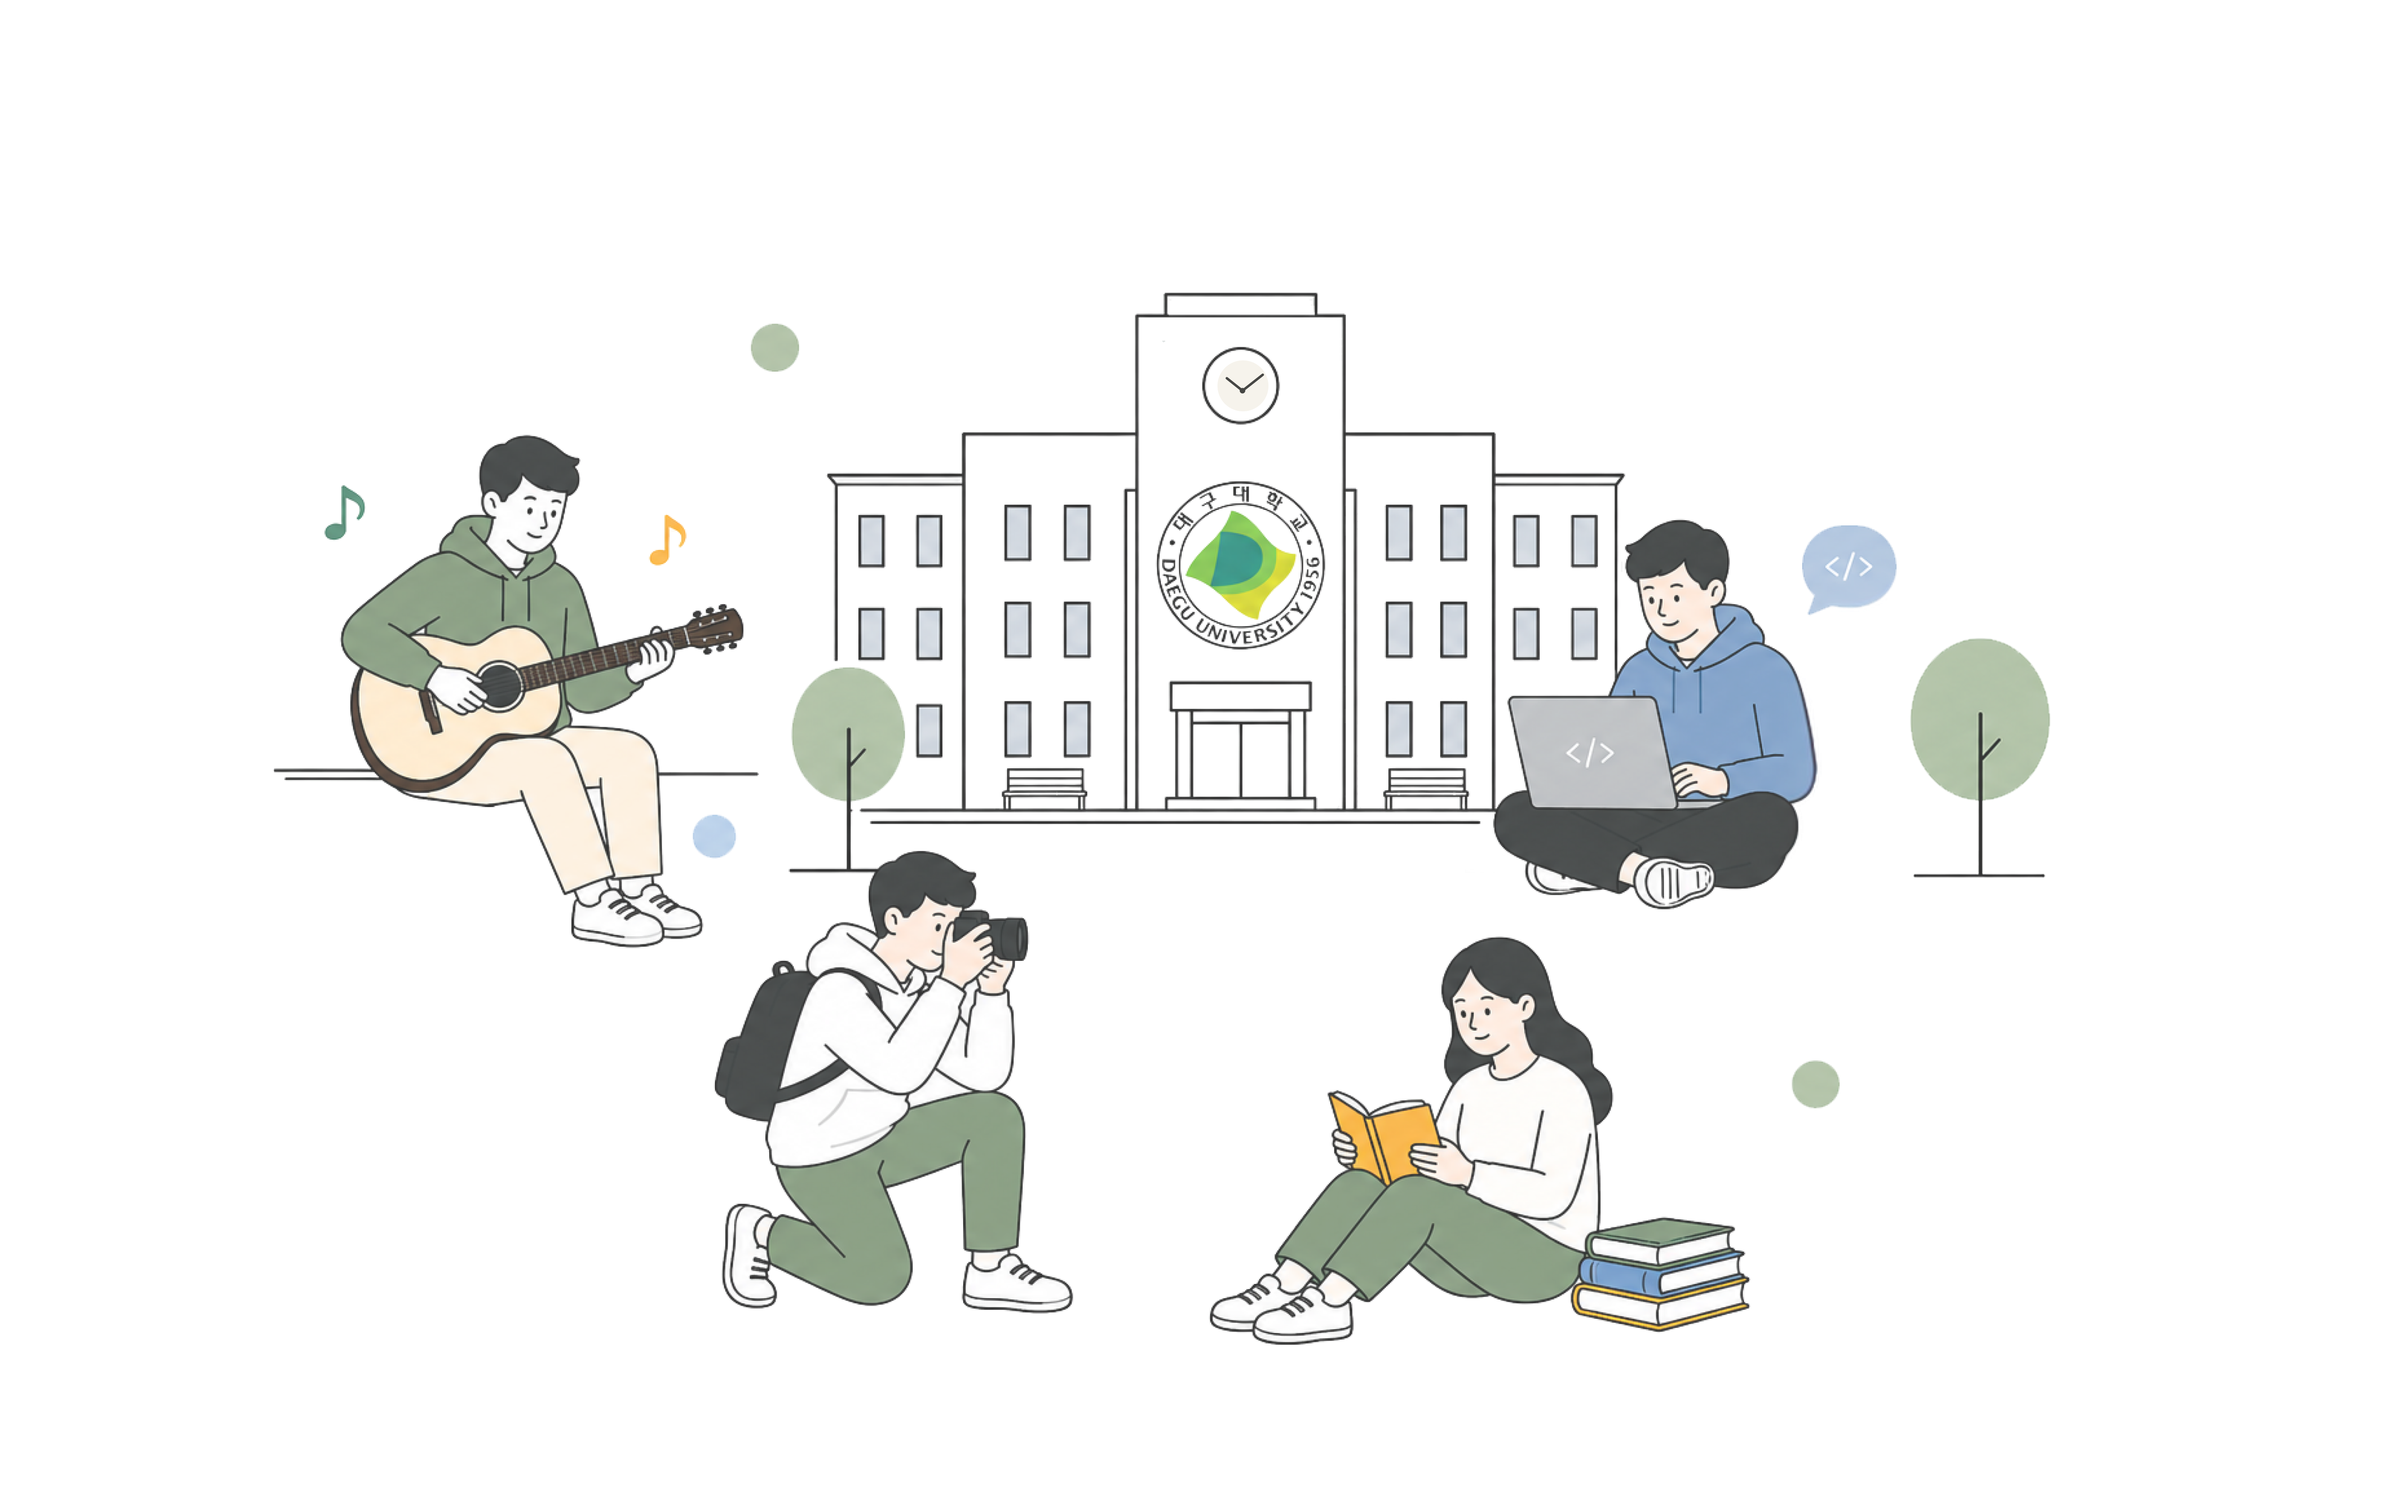
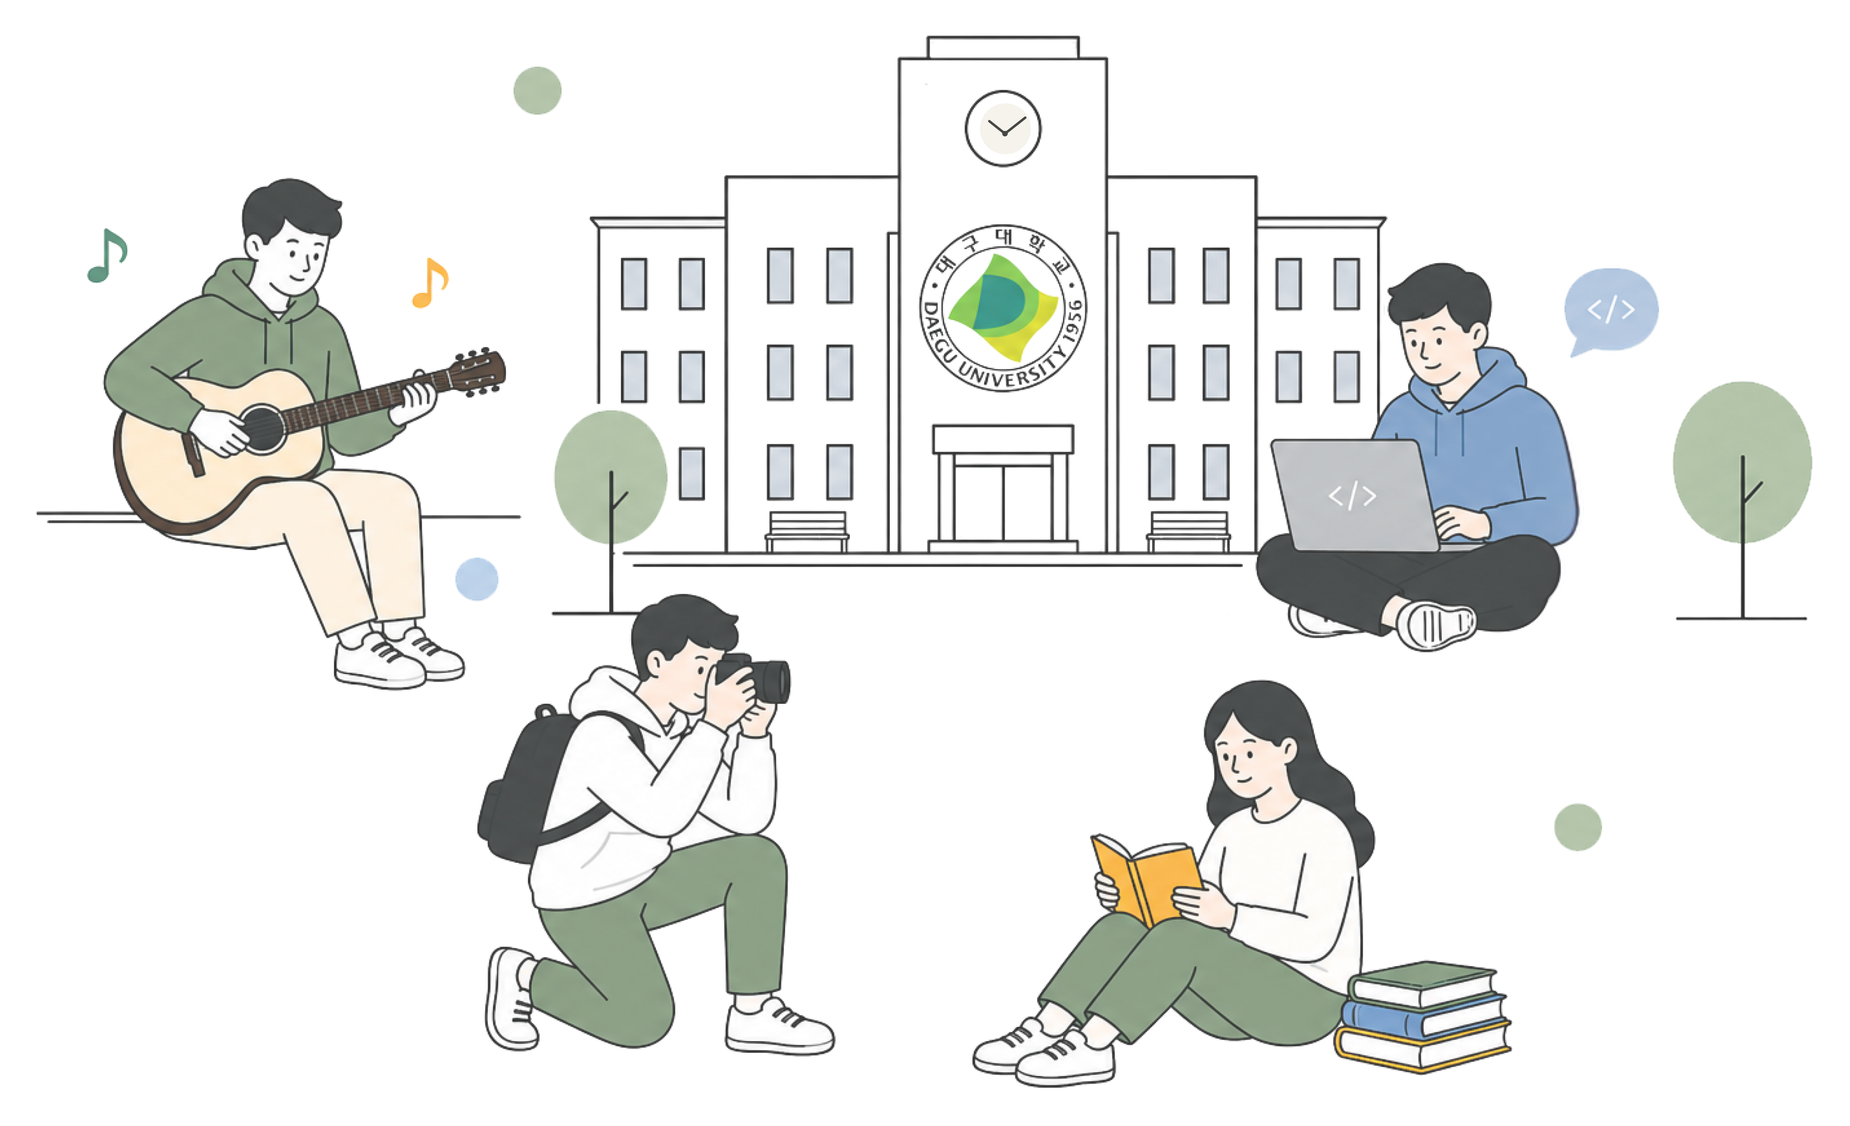
feat(frontend): 홈 히어로 일러스트 — 투명 여백 트림 + lg 부터 박스를 120px 넓혀 시안 크기로

diff --git a/frontend/apps/web/app/_components/sections/HomeHero.tsx b/frontend/apps/web/app/_components/sections/HomeHero.tsx
@@ -121,15 +121,20 @@ export function HeroRightVisual({ toasts }: { toasts: HeroToast[] }) {
     // 모바일(<md)에선 우측 비주얼 전체 숨김. 내부 relative 박스 폭을 일러스트 폭에 맞춰,
     // 토스트가 일러스트 가장자리에 자연스럽게 겹쳐 뜨도록 한다(의도된 겹침).
     <div className="hidden md:block">
-      <div className="relative mx-auto w-full max-w-[560px] lg:max-w-[760px]">
+      {/* lg 부터는 박스를 컬럼보다 120px 넓혀 왼쪽으로 당긴다 — 시안(608:4884)의 그림은 콘텐츠 폭의 64%
+          (1200 기준 ≈ 770px)로 헤드라인 끝 ~120px 오른쪽에서 시작하는데, 우측 컬럼(≈690)만으로는 그 크기가
+          안 나온다. 넓힌 만큼 왼쪽 컬럼의 검색 버튼 위를 박스가 덮는데 그 자리는 그림의 투명 영역이다 —
+          투명해도 박스·이미지는 클릭을 먹으므로 박스째 pointer-events-none 으로 통과시키고, 토스트만 다시 살린다. */}
+      <div className="pointer-events-none relative mx-auto w-full max-w-[560px] lg:-ml-[120px] lg:w-[calc(100%+120px)] lg:max-w-none">
         {/* 브랜드 일러스트 — 우측 메인 비주얼(박스를 가득 채움). drop-shadow 없음, 드래그 방지.
             등장 애니메이션은 두지 않는다 — 새로고침마다 첫 화면이 다시 "나타나" 리로드처럼 읽히고,
             opacity 0 인 요소는 LCP 후보에서 빠지므로, 페이드가 시작돼 보이기 시작하는 시점만큼 LCP 가 늦어진다.
-            파일명에 판 번호를 붙인다 — public 이미지는 1년 immutable 캐시라 같은 이름으로 덮으면 옛 그림이 남는다. */}
+            파일명에 판 번호를 붙인다 — public 이미지는 1년 immutable 캐시라 같은 이름으로 덮으면 옛 그림이 남는다.
+            원본의 투명 여백(좌 11·상 20·우 15·하 10%)은 2% 만 남기고 잘라 넣었다 — 여백째 넣으면 그림이 박스의 3/4 로 보인다. */}
         <Image
           src="/duing-illustration-2.png"
           alt="두잉 — 캠퍼스 동아리 활동 일러스트레이션"
-          width={1600}
+          width={1643}
           height={1000}
           priority
           fetchPriority="high"
@@ -138,7 +143,7 @@ export function HeroRightVisual({ toasts }: { toasts: HeroToast[] }) {
         />
 
         {/* 활동 토스트 — 시안대로 일러스트 우측 상단 한 자리에만 두고, 나머지는 옆으로 밀어 본다. */}
-        <div className="absolute right-1 top-10 lg:right-3 lg:top-16">
+        <div className="pointer-events-auto absolute right-1 top-10 lg:right-3 lg:top-16">
           <HeroActivityToasts toasts={toasts} />
         </div>
       </div>
